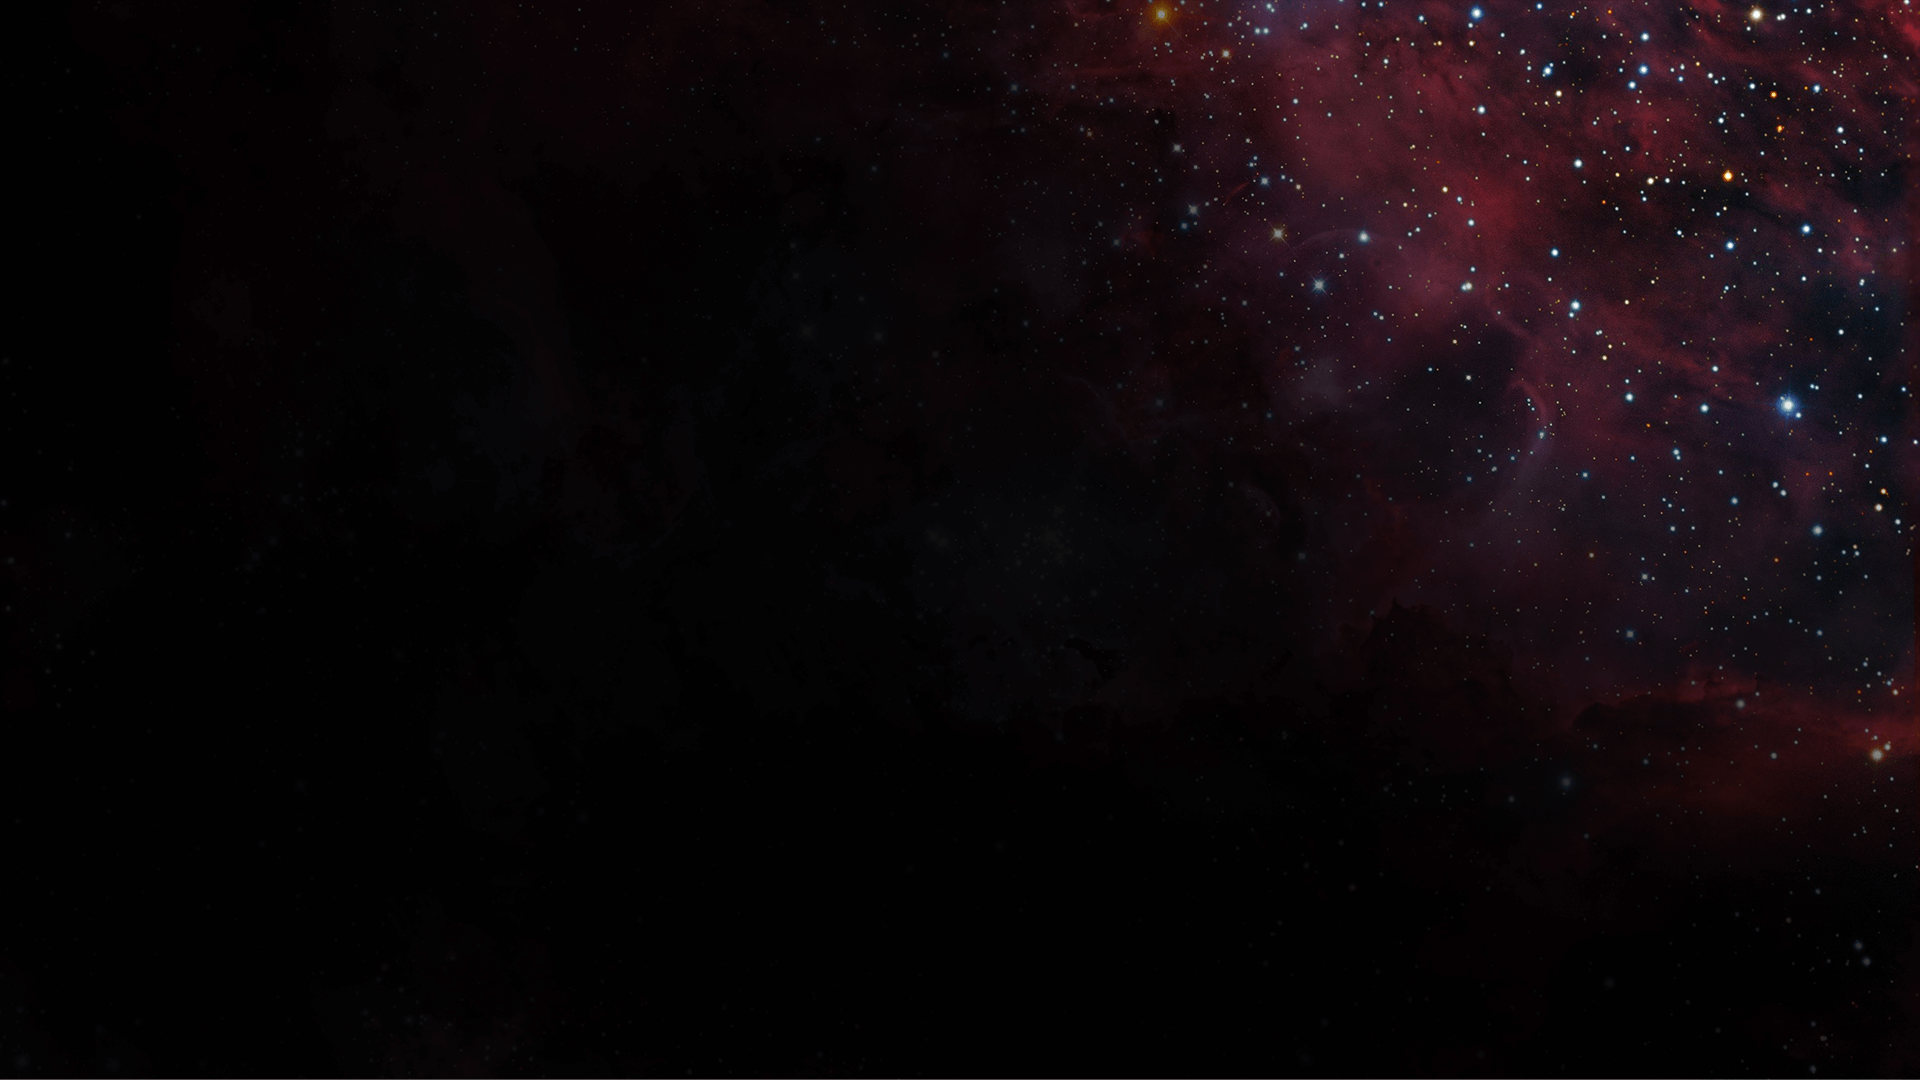
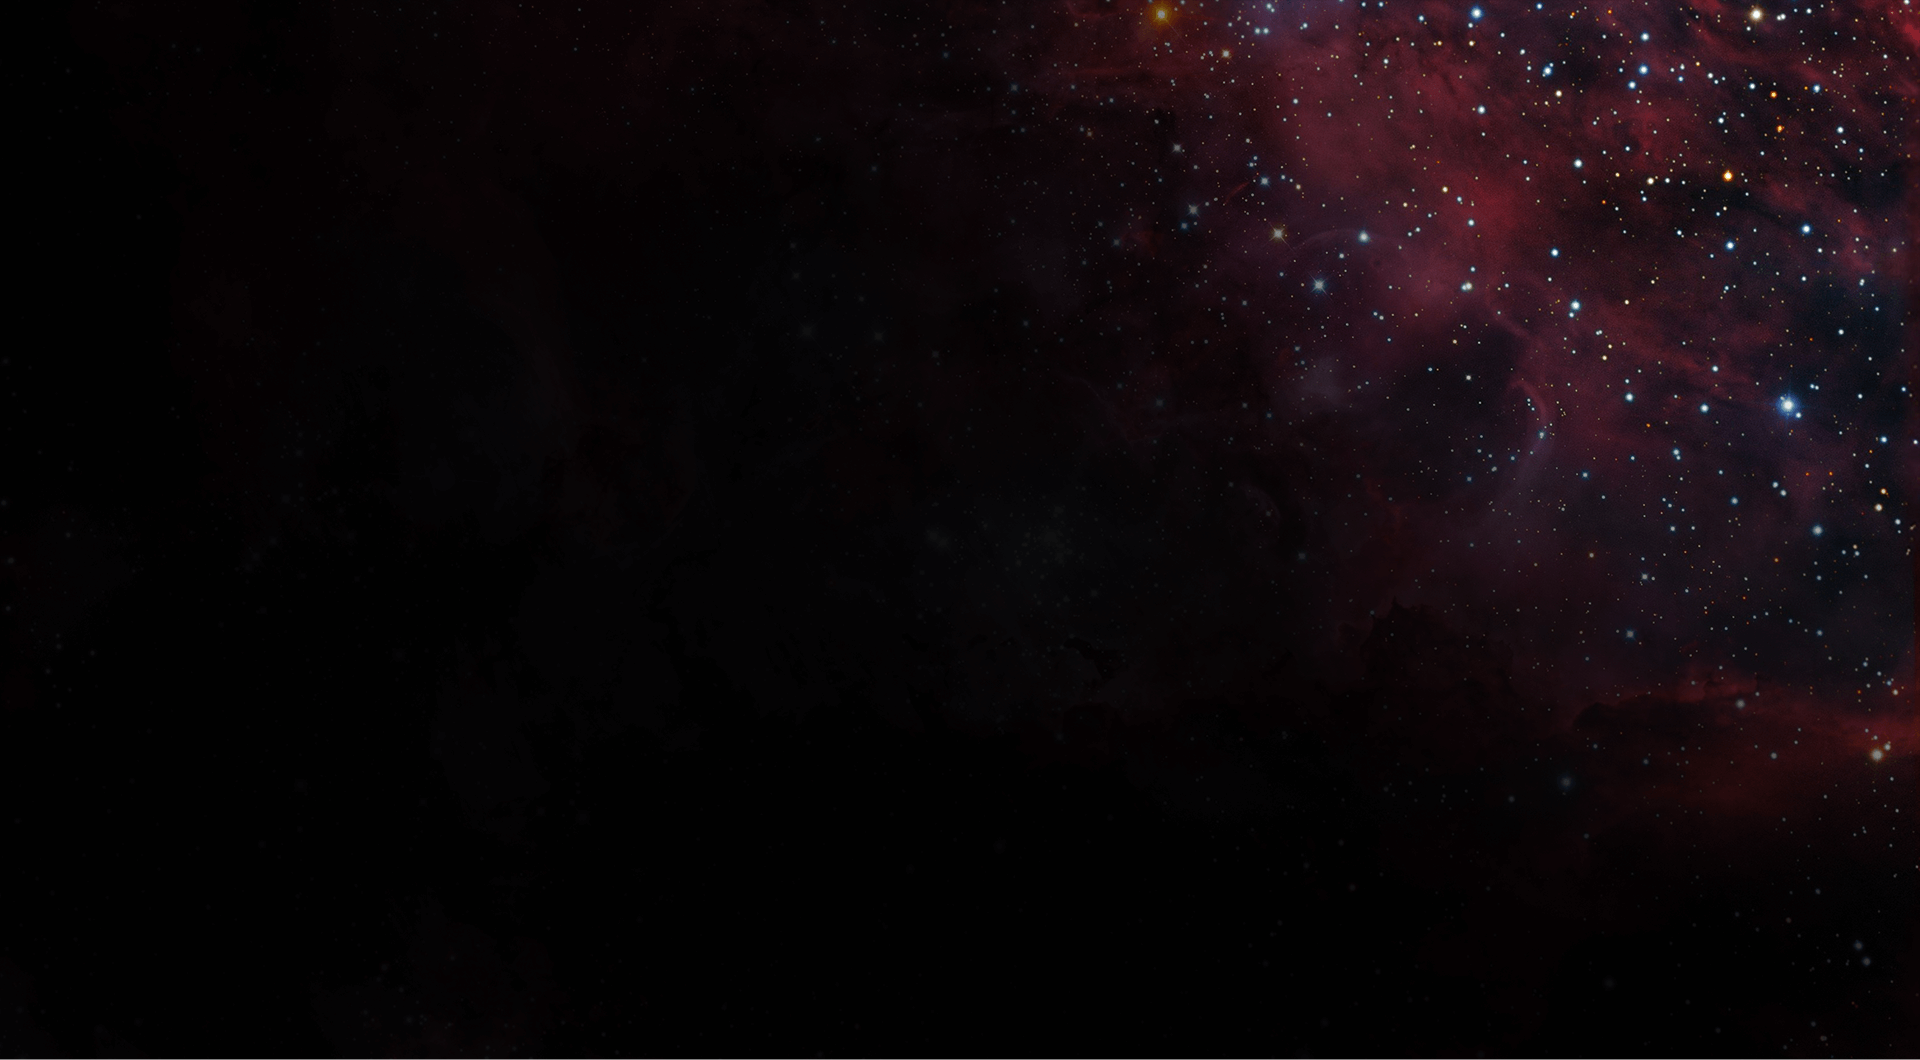
refactor: add new back pic and add 1930px breakpoint

diff --git a/src/app/ocapella/page.module.scss b/src/app/ocapella/page.module.scss
@@ -1,7 +1,8 @@
 @import '/src/styles/variables';
 
 .wrapper {
-  background-image: url('../../../public/images/podcast_back3.png');
+  background-image: url('../../../public/images/podcast_back3.png'),
+    url(../../../public/images/texture.png);
   background-repeat: no-repeat;
 }
 
@@ -29,8 +30,8 @@
 }
 
 .title {
-  margin-top: 170px;
-  margin-bottom: 120px;
+  margin-top: 120px;
+  margin-bottom: 90px;
   display: flex;
   flex-direction: column;
   align-items: flex-start;

diff --git a/src/components/bannerSections/bannerSections.module.scss b/src/components/bannerSections/bannerSections.module.scss
@@ -153,3 +153,17 @@
     }
   }
 }
+
+@media screen and (min-width: 1930px) {
+  .ocapella {
+    .container {
+      padding: 220px 0 200px 0;
+    }
+  }
+
+  .aliens {
+    .container {
+      padding: 200px 0;
+    }
+  }
+}
